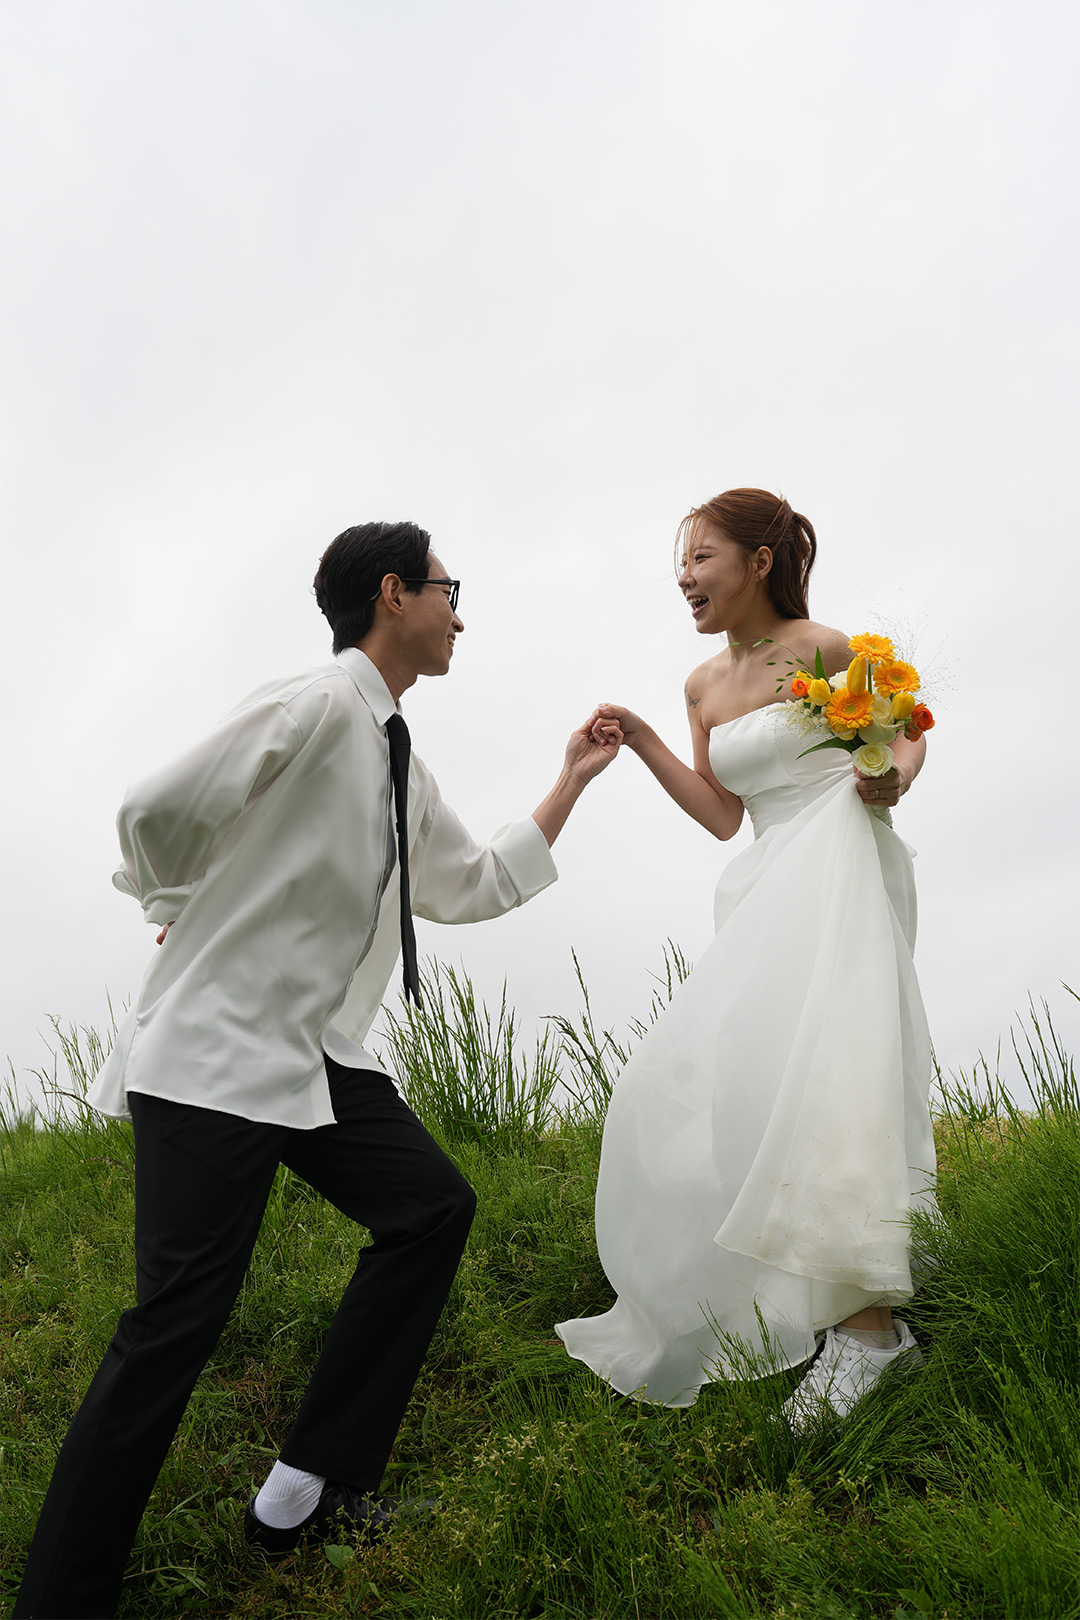
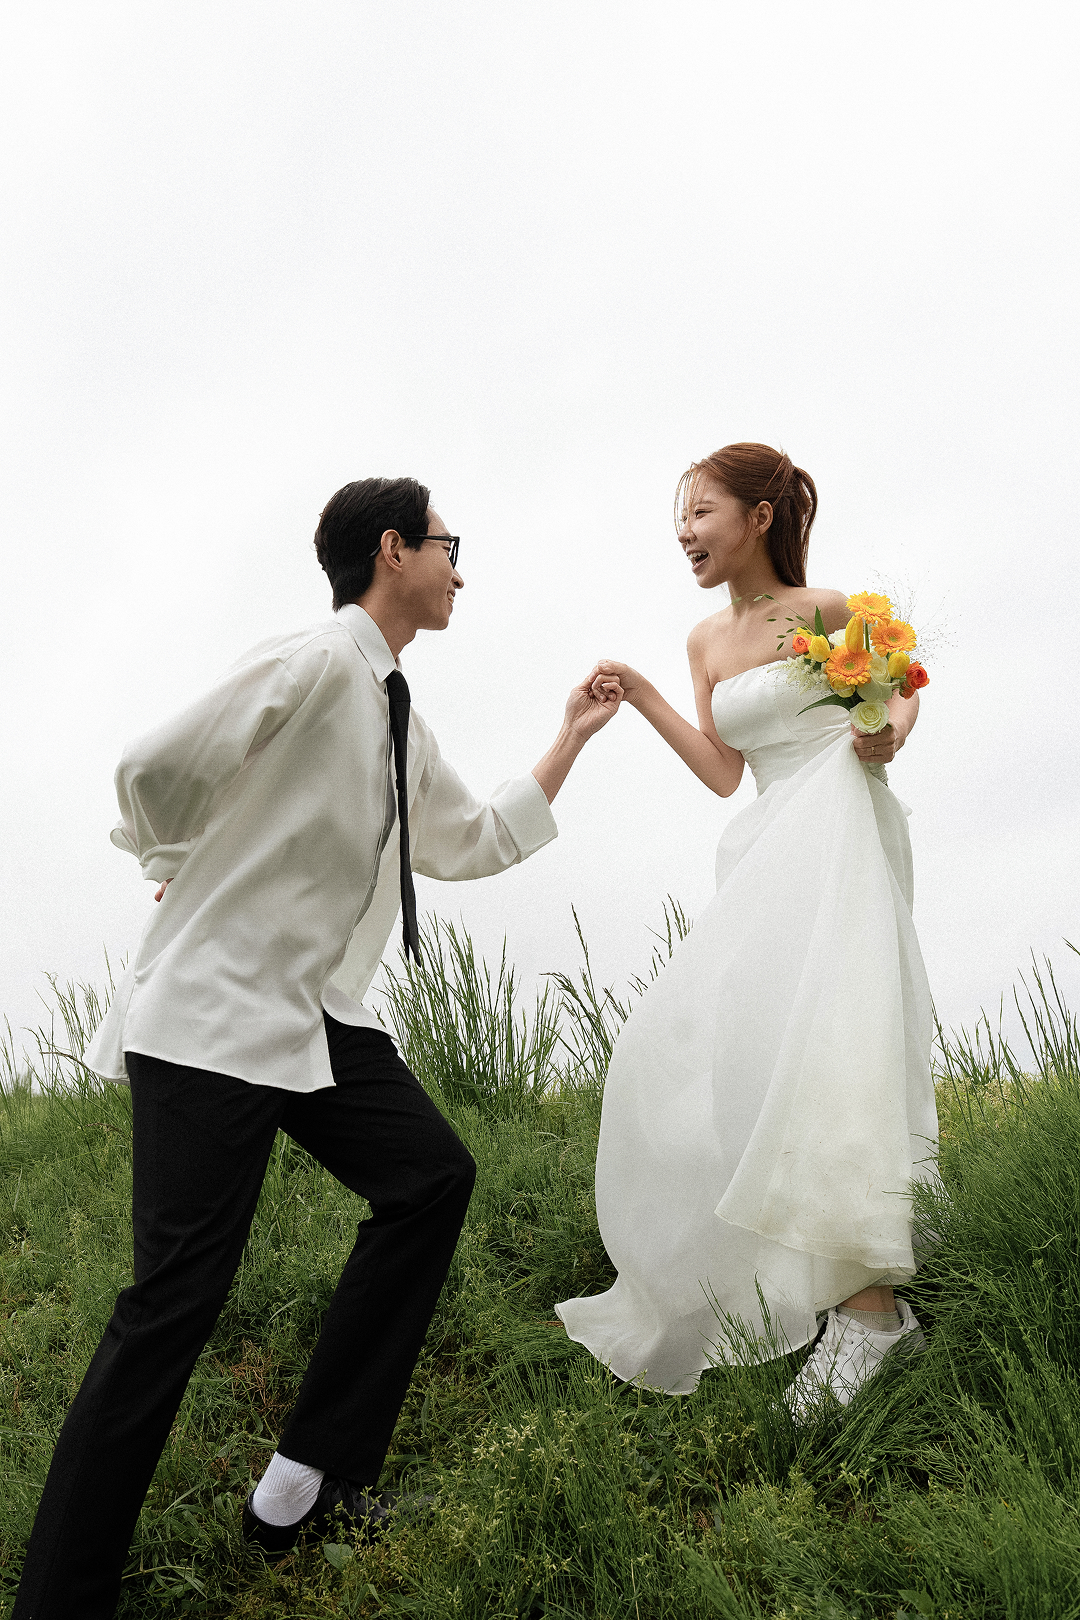
이미지 교체

Changed region(s): [[0.0, 0.2469, 1.0, 1.0]]

diff --git a/css/layout.css b/css/layout.css
@@ -61,9 +61,9 @@ img { width: 100%; display: block; }
 .main-intro__pin-img { width: 100%; max-width: 540rem; aspect-ratio: 4 / 5; position: relative; }
 .main-intro__pin-img-item { position: absolute; top: 0; left: 0; width: 100%; height: 100%; }
 .main-intro__pin-img-item img { height: 100%; width: 100%; object-fit: cover; }
-.main-intro__pin-txt { width: 100%; height: 200rem; position: relative; }
+.main-intro__pin-txt { width: 100%; height: 200rem; position: relative; background: #fbfbfb; }
 .main-intro__pin-txt p { position: absolute; top: 50%; left: 50%; translate: -50% -50%; display: flex; align-items: center; justify-content: center; text-align: center; line-height: 2; font-size: var(--font-size-02); }
-.main-intro__bg { position: relative; height: 580rem; background: url(../img/gallery-03.jpg)no-repeat center; background-size: cover; }
+.main-intro__bg { position: relative; height: 580rem; background: url(../img/gallery-03.jpg?v1)no-repeat center; background-size: cover; }
 
 /* main-parents */
 .main-parents { background: var(--color-primary); position: relative; padding-top: 100rem; max-width: 540rem; margin: 0 auto; }

diff --git a/index.html b/index.html
@@ -86,7 +86,7 @@
                         </div><!-- .main-intro__pin-img-item -->
                         
                         <div class="main-intro__pin-img-item">
-                            <img src="./img/wedding-photo-17.jpeg">
+                            <img src="./img/wedding-photo-17.jpg">
                         </div><!-- .main-intro__pin-img-item -->
                     </div><!-- .main-intro__pin-img -->
 
